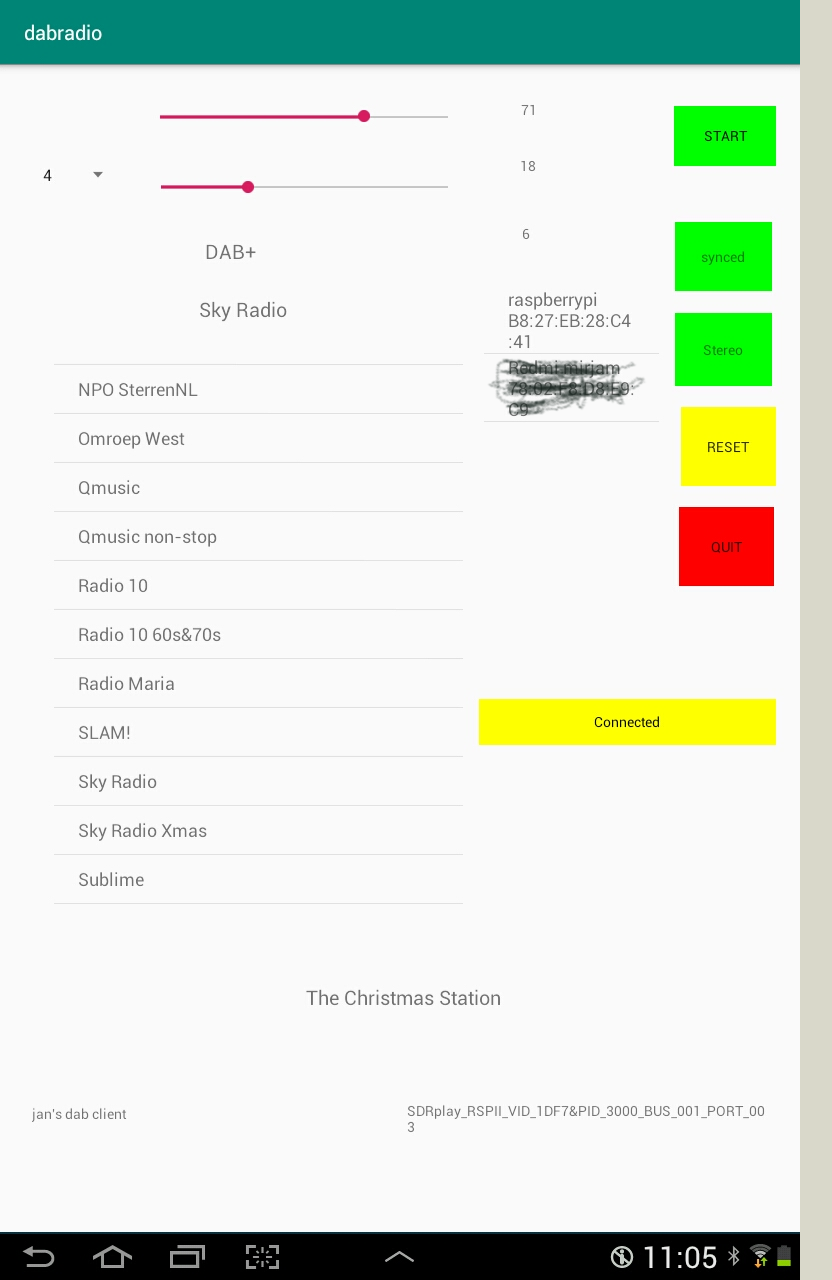
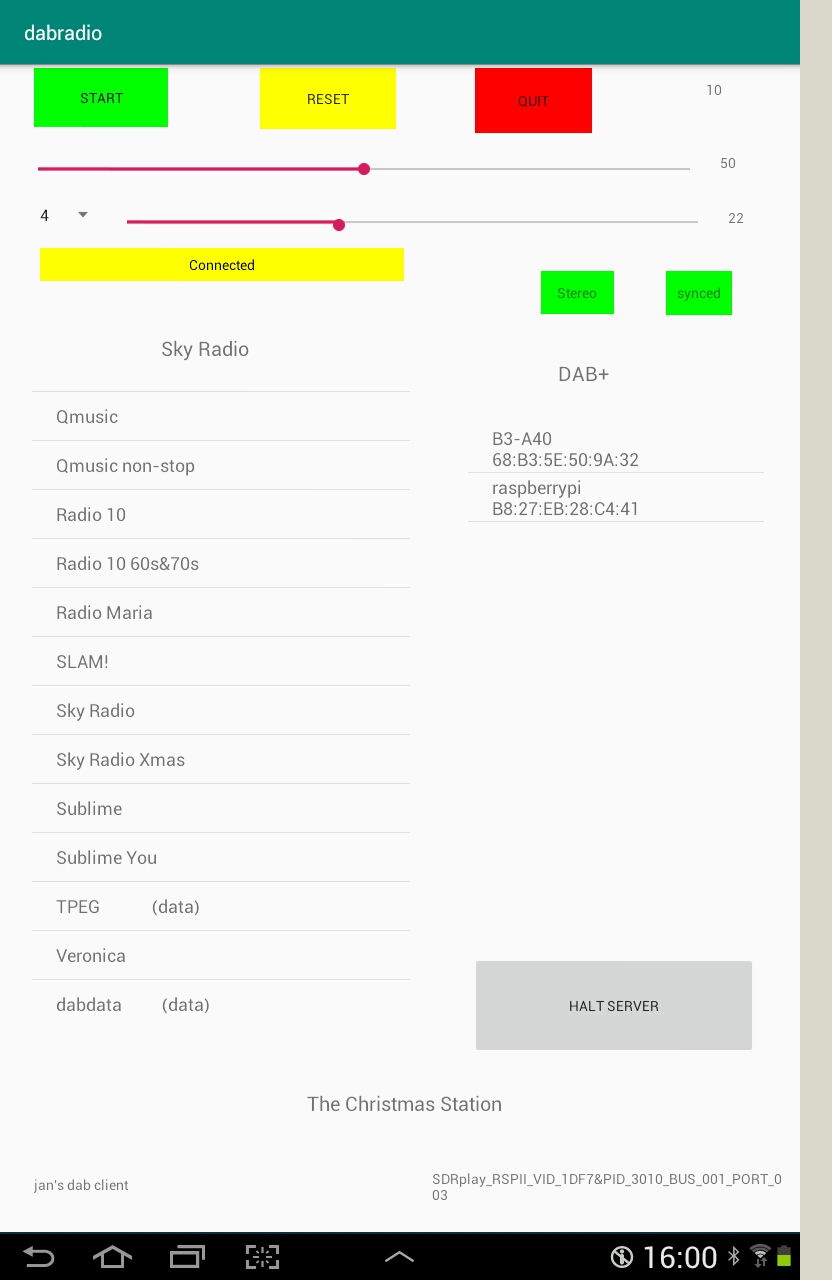
minor mod

diff --git a/config.cpp b/config.cpp
@@ -25,9 +25,10 @@ static std::string& rtrim (std::string& s) {
 }
 
 	config::config (const std::string filename) {
-std::string env	= getenv ("HOME");
+//std::string env	= getenv ("HOME");
 
-	this	-> fileName	= env. append (filename);
+	this	-> fileName	= fileName;
+//	this	-> fileName	= env. append (filename);
 	fprintf (stderr, "config is stored as %s\n", fileName. c_str ());
 	configMap. clear ();
 	parse (this -> fileName);

diff --git a/main.cpp b/main.cpp
@@ -294,7 +294,7 @@ int	optie;
 
 	theBandHandler	= new bandHandler ();
 
-	my_config	= new config (std::string ("/.dab-server.ini"));
+	my_config	= new config (std::string ("/home/pi/.dab-server.ini"));
 	handleSettings (my_config, &my_radioData);
 
 	my_radioData. soundOut	= false;

diff --git a/README.md b/README.md
@@ -36,6 +36,9 @@ A simple android client is being exercised on my tablet.
 The client is still pretty simple, and android is subject
 to further study, but it is working pretty well.
 
+To experiment a little with anroid, there are two versions, identical
+though for different screen formats.
+
 ---------------------------------------------------------------------
 The server
 ---------------------------------------------------------------------
